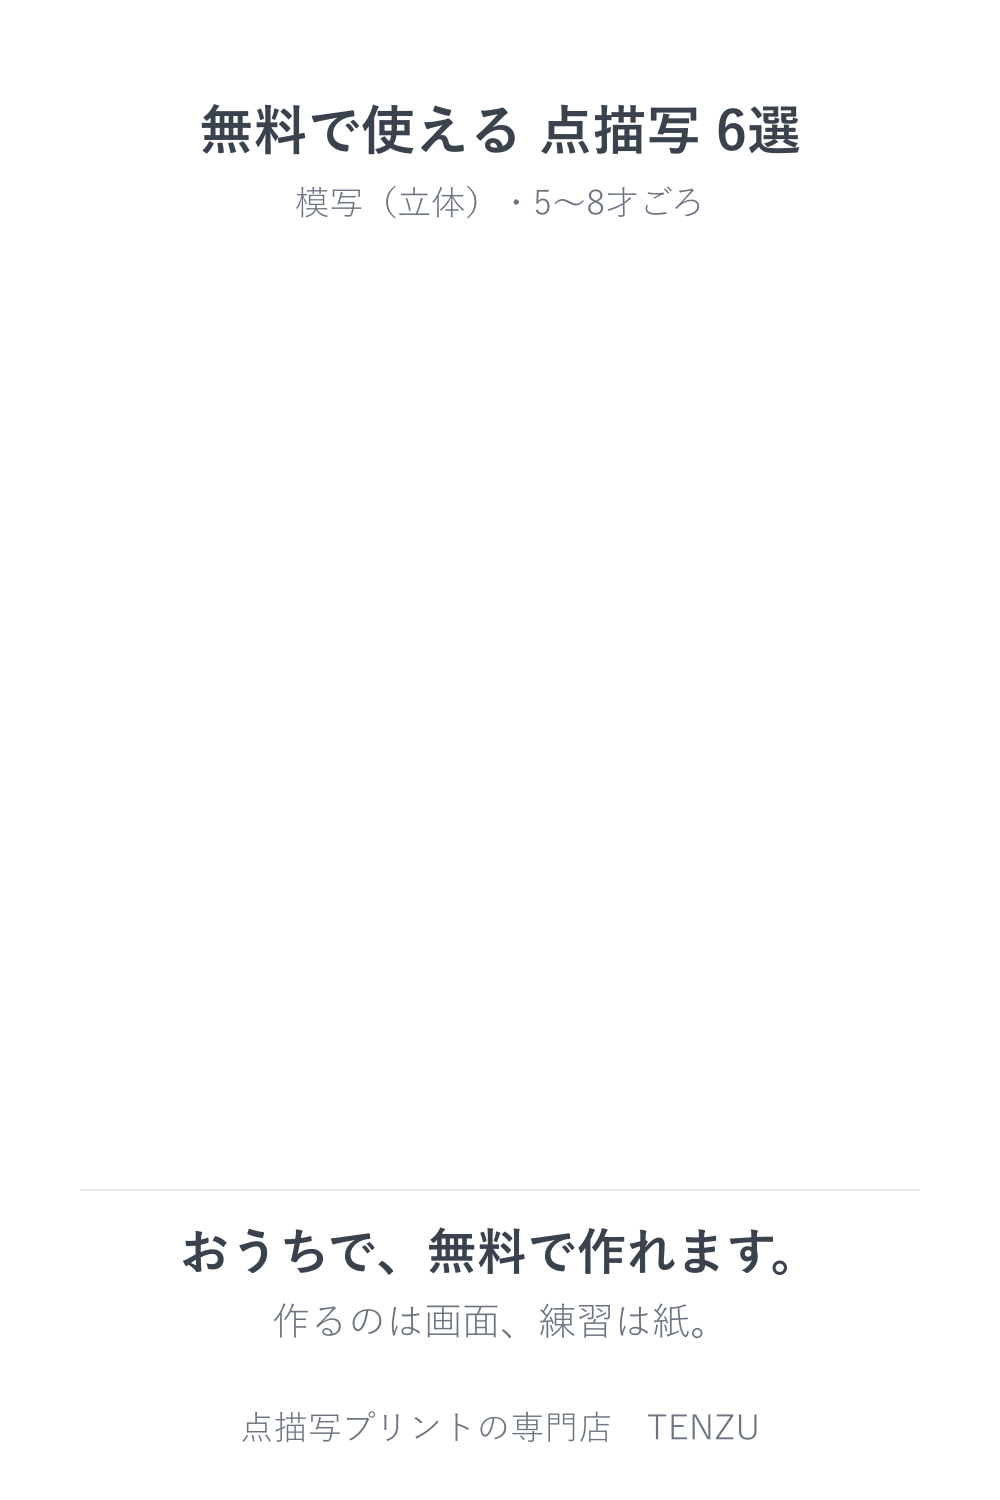
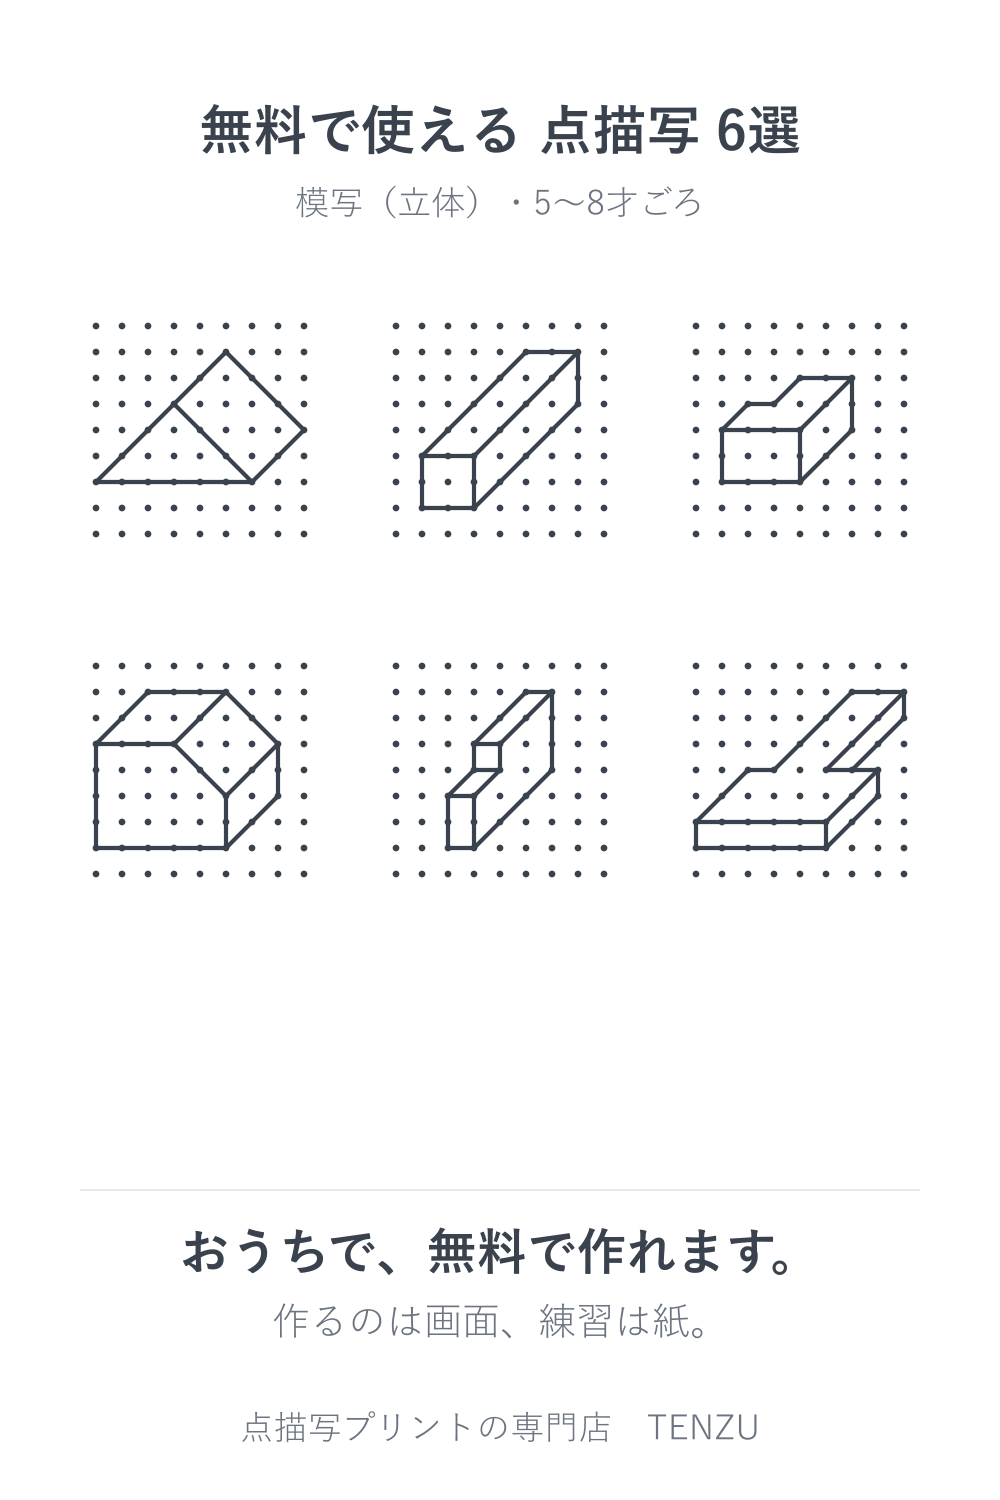
fix(pins): 立体の巻のピンが白紙になるのを直す
solid は edges が空で実体が solidEdges にあるため、ピンが枠だけで出ていた。
図形の開き方（figureOf/drawFigure）を動画側から pin-render へ移して共有し、
線が 0 本の問題は書き出し前に落とす。02 の立体ピンを描き直した。

diff --git a/web/scripts/export-anim.ts b/web/scripts/export-anim.ts
@@ -27,7 +27,7 @@ import { TASK_DESC } from "../app/products/task-desc";
 import type { MakerKey } from "../app/products/capabilities";
 import { toRenderProblems, composeTriple } from "../app/products/problems/render";
 import { opSegs, rotPtPrint, rotArcSegs } from "../app/products/print";
-import { lattice, text, INK, MUTED, ACCENT } from "../app/atelier/pins/pin-render";
+import { lattice, text, figureOf, drawFigure, INK, MUTED, ACCENT, type Seg } from "../app/atelier/pins/pin-render";
 
 const W = 1080, H = 1920;
 const PAPER_EDGE = "#E5E8EC";
@@ -44,43 +44,8 @@ const fps = Number(opt("fps", "30"));
 const outDir = path.resolve(process.cwd(), opt("out", "../docs/drafts/sns/video"));
 const positional = rest.filter((a) => !a.startsWith("--") && rest[rest.indexOf(a) - 1] !== "--out" && rest[rest.indexOf(a) - 1] !== "--fps");
 
-/* ---------- 図形の共通表現（square と solid を 1 本にそろえる） ---------- */
-
-type Seg = { a: [number, number]; b: [number, number]; dashed?: boolean };
-
-/* 問題を「n×n 格子 ＋ 線分の列」に開く。solid は solidEdges（隠れ線 style 付き）が実体。 */
-function figureOf(p: Problem): { n: number; segs: Seg[] } {
-  if (p.grid.type === "square") {
-    const n = (p.grid as SquareGrid).n;
-    return { n, segs: p.edges.map((e) => ({ a: [e[0][0], e[0][1]], b: [e[1][0], e[1][1]] })) };
-  }
-  const g = p.grid as SolidGrid;
-  const segs = (p.solidEdges ?? []).map((e) => ({
-    a: [e.a.c, e.a.r] as [number, number],
-    b: [e.b.c, e.b.r] as [number, number],
-    dashed: e.style === "dashed",
-  }));
-  return { n: Math.max(g.cols, g.rows), segs };
-}
-
-/* 格子の点と線分を描く。座標系は pin-render の lattice を共有（重複実装を作らない）。 */
-function drawFigure(
-  n: number, segs: Seg[], ox: number, oy: number, size: number,
-  o: { opacity?: number; dots?: boolean } = {},
-): string {
-  const { X, Y, dotR, ew } = lattice(n, ox, oy, size);
-  let s = "";
-  if (o.dots !== false)
-    for (let r = 0; r < n; r++)
-      for (let c = 0; c < n; c++)
-        s += `<circle cx="${X(c).toFixed(1)}" cy="${Y(r).toFixed(1)}" r="${dotR.toFixed(1)}" fill="${INK}"/>`;
-  for (const e of segs) {
-    const dash = e.dashed ? ` stroke-dasharray="${(ew * 2.2).toFixed(1)} ${(ew * 1.8).toFixed(1)}"` : "";
-    s += `<line x1="${X(e.a[0]).toFixed(1)}" y1="${Y(e.a[1]).toFixed(1)}" x2="${X(e.b[0]).toFixed(1)}" y2="${Y(e.b[1]).toFixed(1)}" stroke="${INK}" stroke-width="${ew.toFixed(1)}" stroke-linecap="round"${dash}/>`;
-  }
-  const op = o.opacity ?? 1;
-  return op >= 1 ? s : `<g opacity="${op.toFixed(3)}">${s}</g>`;
-}
+/* 図形の共通表現（square と solid を 1 本にそろえる）と描画は pin-render と共有。
+   ピン・動画で図の見え方がずれないよう、ここには実装を置かない。 */
 
 /* 1 行に収まらない説明文を素朴に折る（句点優先・なければ字数）。 */
 function wrapJa(s: string, perLine: number): string[] {

diff --git a/web/scripts/export-pins.ts b/web/scripts/export-pins.ts
@@ -11,9 +11,10 @@ import { promises as fs } from "fs";
 import path from "path";
 import sharp from "sharp";
 import { PUBLISHED } from "../app/products/problems/published";
+import type { Problem } from "../app/products/problems/schema";
 import { volBySku } from "../app/products/data";
 import {
-  PIN_W, PIN_H, pinP1, pinP2, pinP3, pinRow, buildCsv, buildP2Ladder,
+  PIN_W, PIN_H, pinP1, pinP2, pinP3, pinRow, buildCsv, buildP2Ladder, figureOf,
   type PinTemplate, type PinRow,
 } from "../app/atelier/pins/pin-render";
 
@@ -24,11 +25,23 @@ const opt = (name: string, dflt: string) => {
 };
 const campaign = opt("campaign", "launch");
 const outDir = path.resolve(process.cwd(), opt("out", "../docs/drafts/sns/pinterest"));
-const specs = args.filter((a) => a.includes(":") && !a.startsWith("--"));
+/* Windows の絶対パス（C:\...）も ":" を含むため、--out 等の「フラグの値」は spec から外す。 */
+const specs = args.filter(
+  (a, i) => a.includes(":") && !a.startsWith("--") && !(i > 0 && args[i - 1].startsWith("--")),
+);
 
 if (specs.length === 0) {
   console.error("使い方: npx tsx scripts/export-pins.ts <sku>:<p1|p2|p3> [...] [--campaign launch] [--out <dir>]");
   process.exit(1);
+}
+
+/* 図が 1 本も入っていないピンは、見た目が「枠だけの白紙」になる。
+   気づかず投稿してしまうので、書き出す前にここで落とす。 */
+function assertDrawable(spec: string, problems: Problem[]): void {
+  if (problems.length === 0) throw new Error(`${spec}: 図が 0 問。ピンを組めない`);
+  const empty = problems.filter((p) => figureOf(p).segs.length === 0);
+  if (empty.length > 0)
+    throw new Error(`${spec}: 線が 1 本も無い問題が ${empty.length}/${problems.length} 問ある（白紙ピンになる）`);
 }
 
 function buildPins(sku: string, template: PinTemplate) {
@@ -39,7 +52,10 @@ function buildPins(sku: string, template: PinTemplate) {
   const { task, vol } = hit;
   const fname = (suffix: string) => `pin_${sku}_${template}${suffix}.png`;
 
+  const spec = `${sku}:${template}`;
+
   if (template === "p1") {
+    assertDrawable(spec, set.problems);
     return set.problems.map((p, i) => {
       const seq = i + 1;
       const filename = fname(`_${String(seq).padStart(2, "0")}`);
@@ -47,9 +63,12 @@ function buildPins(sku: string, template: PinTemplate) {
     });
   }
   if (template === "p2") {
+    const steps = buildP2Ladder(sku);
+    assertDrawable(spec, steps.map((st) => st.p));
     const filename = fname("");
-    return [{ filename, svg: pinP2(task, buildP2Ladder(sku)), row: pinRow("p2", task, vol, filename, { campaign }) }];
+    return [{ filename, svg: pinP2(task, steps), row: pinRow("p2", task, vol, filename, { campaign }) }];
   }
+  assertDrawable(spec, set.problems);
   const filename = fname("");
   return [{ filename, svg: pinP3(task, vol, set.problems), row: pinRow("p3", task, vol, filename, { campaign }) }];
 }
